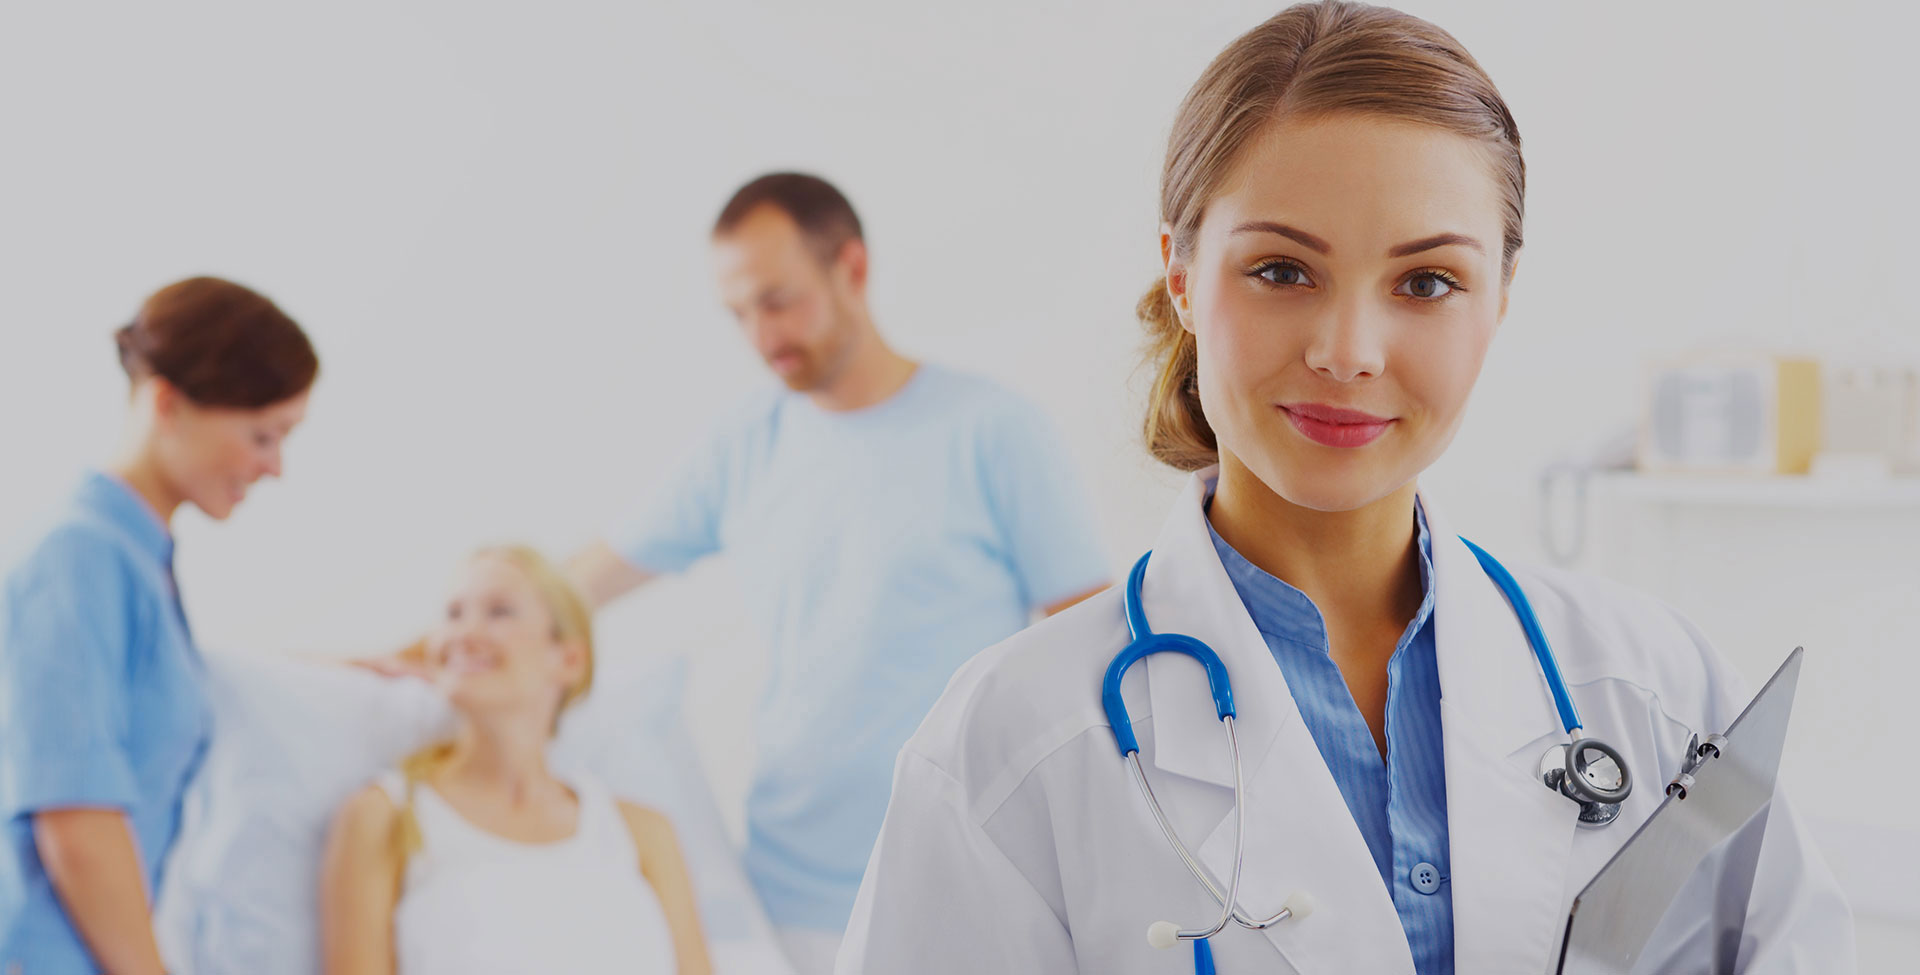
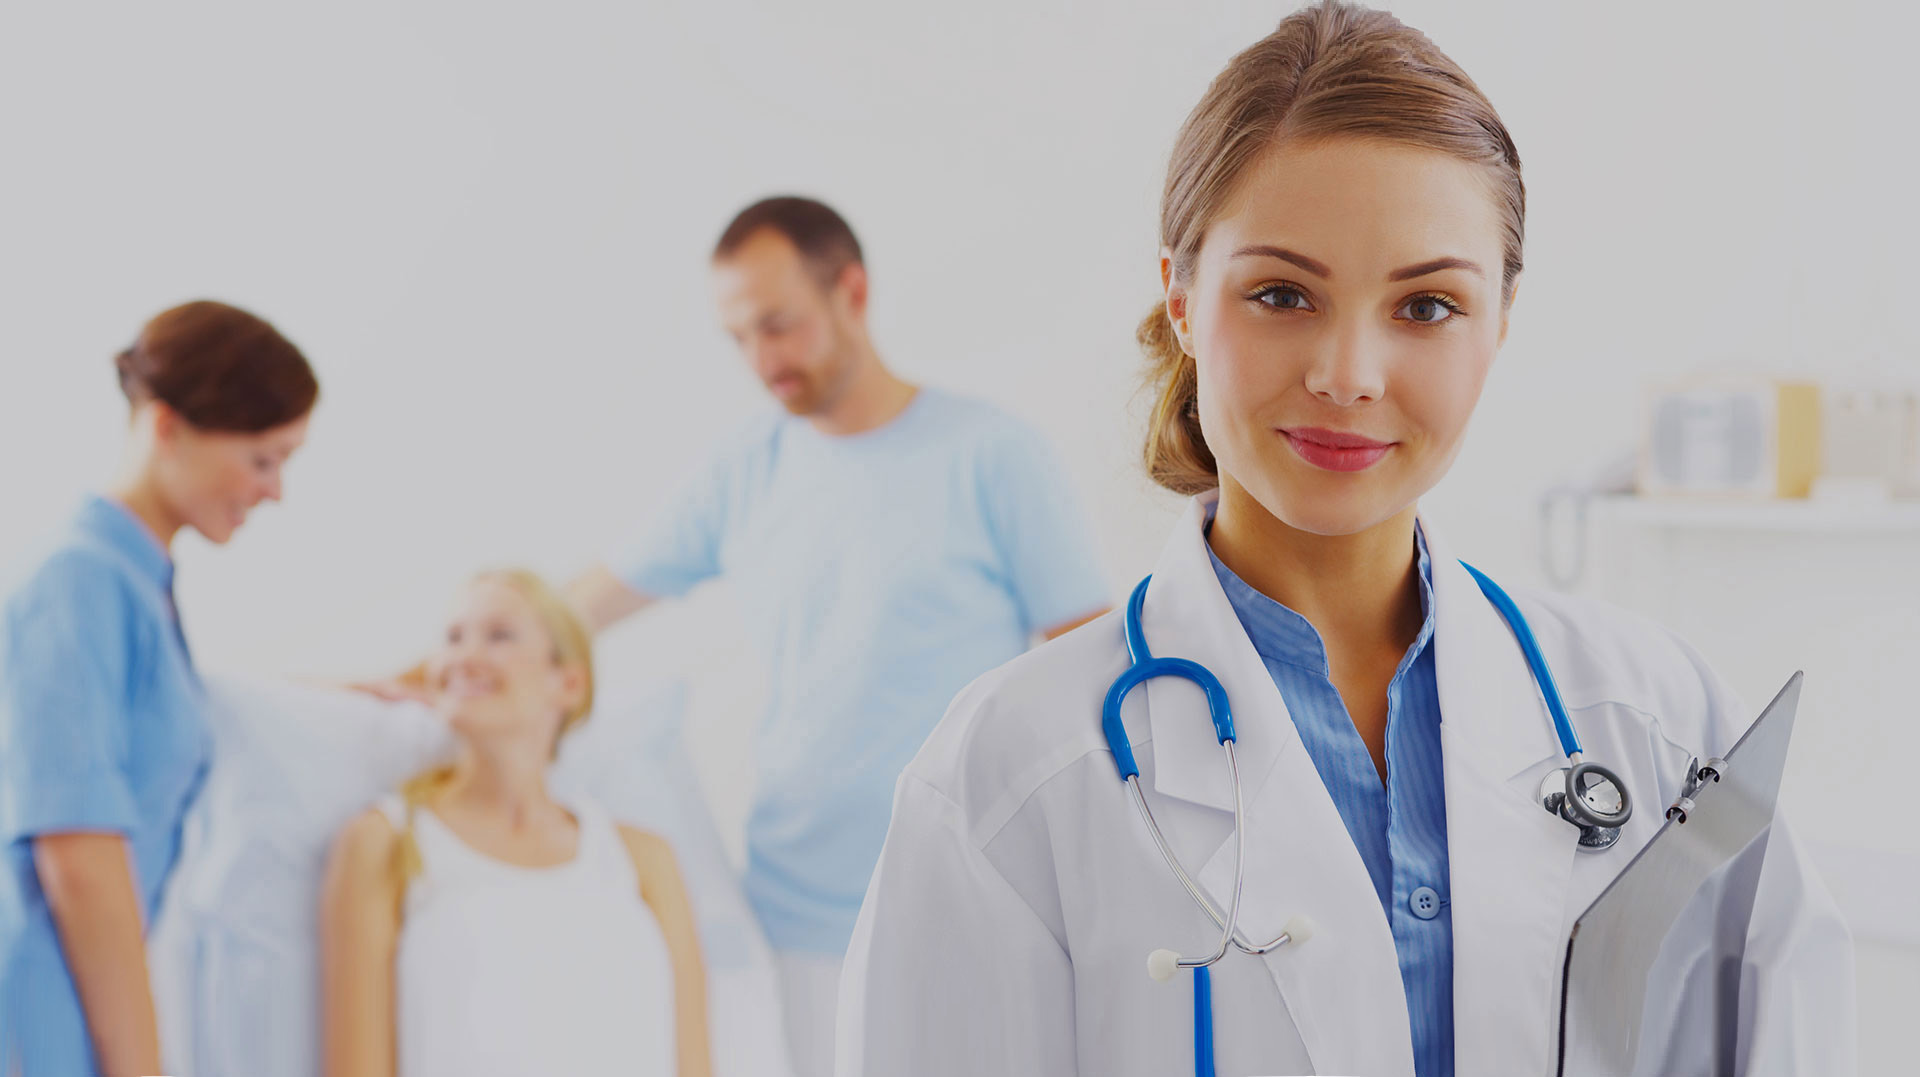
Razvucene slike za logovanje i sredjene sitnice u kodu

diff --git a/Aplikacija/RecipeMe/Pacijent/js/uzmiRecept.js b/Aplikacija/RecipeMe/Pacijent/js/uzmiRecept.js
@@ -31,29 +31,7 @@ popuniRecept();
 
 function preuzmiRecept()
 {
-if(korisnik.brojPreuzetih>=korisnik.doza)
-    {
-             naslov.innerHTML="Notification";
- document.getElementById("qrCode").innerHTML=" ";
-         kartica=document.getElementById("card");
-         document.getElementById("take").style.display = 'none';
-                 kartica.innerHTML="You have taken a monthly limited number of prescriptions. If you need more prescriptions please visit a doctor. \n\
-By clicking the button below, a request for review will be automatically sent. \n\
-You will receive a notification soon for selecting time for an appointment ";
-        div2=document.createElement("div");
-        div2.setAttribute("class","col-lg-4 offset-lg-8");
-        div2.setAttribute("style","padding-top:10px;");
-        D=document.createElement("button");
-        D.innerHTML="Send";
-        D.id="noviZahtev";
-        D.setAttribute("class","btn btn-primary  ");
-        D.setAttribute("style","width:250px; float:right;");
-        div2.appendChild(D);
-        kartica.appendChild(div2);
-        document.getElementById("noviZahtev").onclick=(ev)=>zakaziPregled("Need more doses");
-         return;
-    }
-    
+   
     let content=$('#sendDiv').html();
     const formData=new FormData();
     formData.append("naziv",korisnik.korisnickoIme+Math.random());
@@ -132,12 +110,14 @@ function popuniPoljaPacijent(pacijent)
 {
    const formData=new FormData();
    let date=new Date();
-   let datum=date.getFullYear()+"-"+"0"+date.getMonth()+"-"+date.getDate();
+   let datum=date.getFullYear()+"-"+"0"+(date.getMonth()+1)+"-"+date.getDate();
    naslov.innerHTML="Name Surname: "+pacijent.ime+" "+pacijent.prezime+"<br> Date: "+datum;
    
    korisnik=pacijent;
     if(pacijent.hronicniBolesnik==1)
         { 
+             if(proveriDaLiJeDozvoljenoPreuzimanjeRecepta())
+                 return;
              ime.innerHTML="Name: "+pacijent.ime;
              prezime.innerHTML="Surname: "+pacijent.prezime;
              jmbg.innerHTML="SSN: "+pacijent.jmbg;
@@ -196,15 +176,21 @@ function zakaziPregled(comment)
    var vreme=today.getHours()+":"+today.getMinutes()+":"+today.getSeconds();
    formData.append("pacijent",korisnik.korisnickoIme);
    formData.append("komentar",comment);
+   formData.append("temperatura","36");
+   formData.append("grlo","no");
+   formData.append("kasalj","Low");
+   formData.append("kijanje","No");
+   formData.append("curenje","No");
+   formData.append("doktor",korisnik.doktor);
    formData.append("date",datum);
-    formData.append("time",vreme);
+   formData.append("time",vreme);
      
         const fetchData =
             {
                 method:"POST",
                 body: formData
             }
-       fetch("../php/updateTegobe.php",fetchData)
+       fetch("../php/unesiTegobe.php",fetchData)
             .then(response =>
             {
         if(!response.ok)
@@ -223,4 +209,30 @@ document.getElementById("notificationDiv").innerHTML=" <h1 class='h3 mb-2 text-g
 <p class='mb-0'>\n\
 Due to overloading the network, it may take a while.\n\
 </p></div>";
+}
+function proveriDaLiJeDozvoljenoPreuzimanjeRecepta()
+{
+    if(korisnik.brojPreuzetih>=korisnik.doza)
+    {
+             naslov.innerHTML="Notification";
+ document.getElementById("qrCode").innerHTML=" ";
+         kartica=document.getElementById("card");
+         document.getElementById("take").style.display = 'none';
+                 kartica.innerHTML="You have taken a monthly limited number of prescriptions. If you need more prescriptions please visit a doctor. \n\
+By clicking the button below, a request for review will be automatically sent. \n\
+You will receive a notification soon for selecting time for an appointment ";
+        div2=document.createElement("div");
+        div2.setAttribute("class","col-lg-4 offset-lg-8");
+        div2.setAttribute("style","padding-top:10px;");
+        D=document.createElement("button");
+        D.innerHTML="Send";
+        D.id="noviZahtev";
+        D.setAttribute("class","btn btn-primary  ");
+        D.setAttribute("style","width:250px; float:right;");
+        div2.appendChild(D);
+        kartica.appendChild(div2);
+        document.getElementById("noviZahtev").onclick=(ev)=>zakaziPregled("I am a chronic patient and i need more doses of my therapy");
+         return true;
+    }
+    return false;
 }

diff --git a/Aplikacija/RecipeMe/Pacijent/js/prikaziTermine.js b/Aplikacija/RecipeMe/Pacijent/js/prikaziTermine.js
@@ -271,7 +271,7 @@ You will receive a notification soon for selecting time for an appointment ";
         D.setAttribute("style","width:250px; float:right;");
         div2.appendChild(D);
         div.appendChild(div2);
-        document.getElementById("noviZahtev").onclick=(ev)=>zakaziPregled(pacijent,"Control Review");
+        document.getElementById("noviZahtev").onclick=(ev)=>zakaziPregled(pacijent,"I am a chronic patient and it is time for my control review");
        // document.getElementById("take").style.display = 'none';
         return;
     }
@@ -289,15 +289,21 @@ function zakaziPregled(korisnik,comment)
    var vreme=today.getHours()+":"+today.getMinutes()+":"+today.getSeconds();
    formData.append("pacijent",korisnik.korisnickoIme);
    formData.append("komentar",comment);
+   formData.append("temperatura","36");
+   formData.append("grlo","no");
+   formData.append("kasalj","Low");
+   formData.append("kijanje","No");
+   formData.append("curenje","No");
+   formData.append("doktor",korisnik.doktor);
    formData.append("date",datum);
-    formData.append("time",vreme);
+   formData.append("time",vreme);
      
         const fetchData =
             {
                 method:"POST",
                 body: formData
             }
-       fetch("../php/updateTegobe.php",fetchData)
+       fetch("../php/unesiTegobe.php",fetchData)
             .then(response =>
             {
         if(!response.ok)

diff --git a/Aplikacija/RecipeMe/Lekar/lekarForma/js/prepisiRecept.js b/Aplikacija/RecipeMe/Lekar/lekarForma/js/prepisiRecept.js
@@ -99,13 +99,7 @@ function prikaziModal()
 }
 function posaljiRecept(dugme)
 {
-    if(PacijentGlobal.brojPreuzetih > 100)
-    {
-        // ako se predje limit sa brojem poslatih recepata 
-        // da iskoci neko upozorenje Lekaru i da se pacijentu posalje neki mail mora da se smisli sta i kako 
-    }
-    else
-    {
+    
     let dijagnozaText=dijagnoza.value;
     let medikamentiText=medikamenti.value;
     const formData=new FormData();
@@ -138,7 +132,7 @@ function posaljiRecept(dugme)
    }).
            then(()=>{preview()}).catch(error => console.log(error));   
     
-    }
+    
    
     
     

diff --git a/Aplikacija/RecipeMe/Lekar/lekarForma/js/slanjeRecepta.js b/Aplikacija/RecipeMe/Lekar/lekarForma/js/slanjeRecepta.js
@@ -67,7 +67,7 @@ function prikaziPacijenta(){
 function PodaciPacijenta(pacijent)
 {
     let date=new Date();
-    let datum=date.getFullYear()+"-"+"0"+date.getMonth()+"-"+date.getDate();
+    let datum=date.getFullYear()+"-"+"0"+(date.getMonth()+1)+"-"+date.getDate();
     PacijentGlobal=pacijent;
     imePacijenta.innerHTML="Name: "+pacijent.ime;
     prezimePacijenta.innerHTML="Surname: "+pacijent.prezime;
